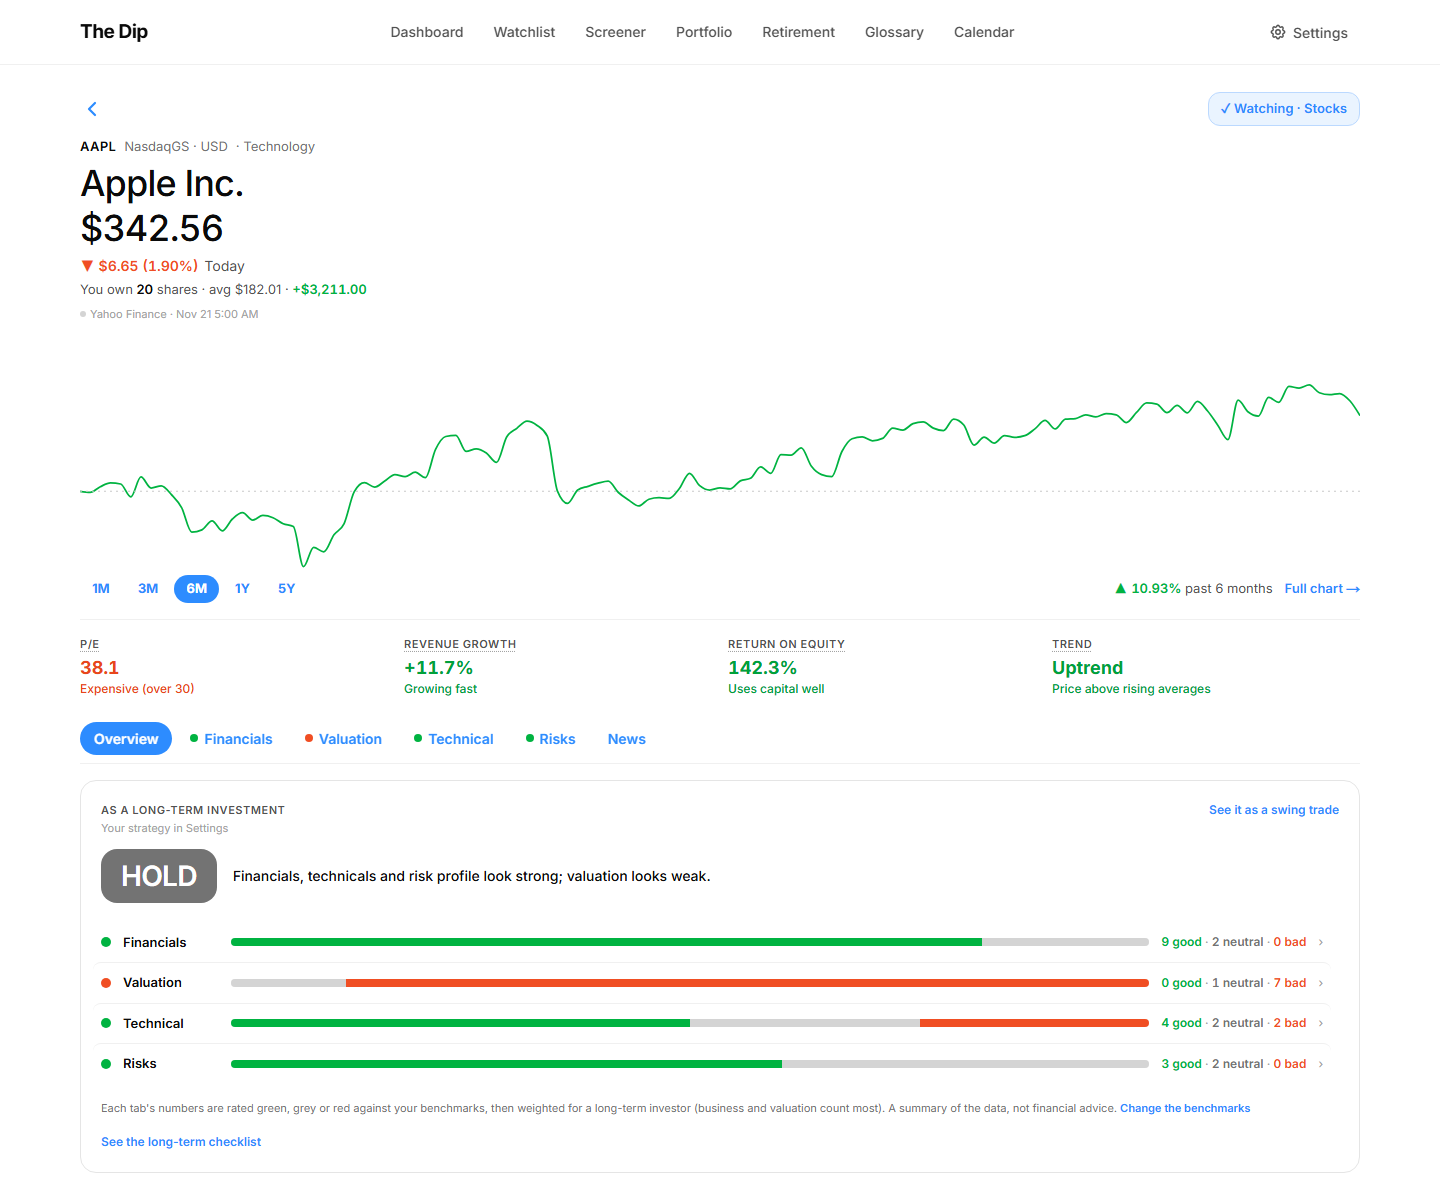
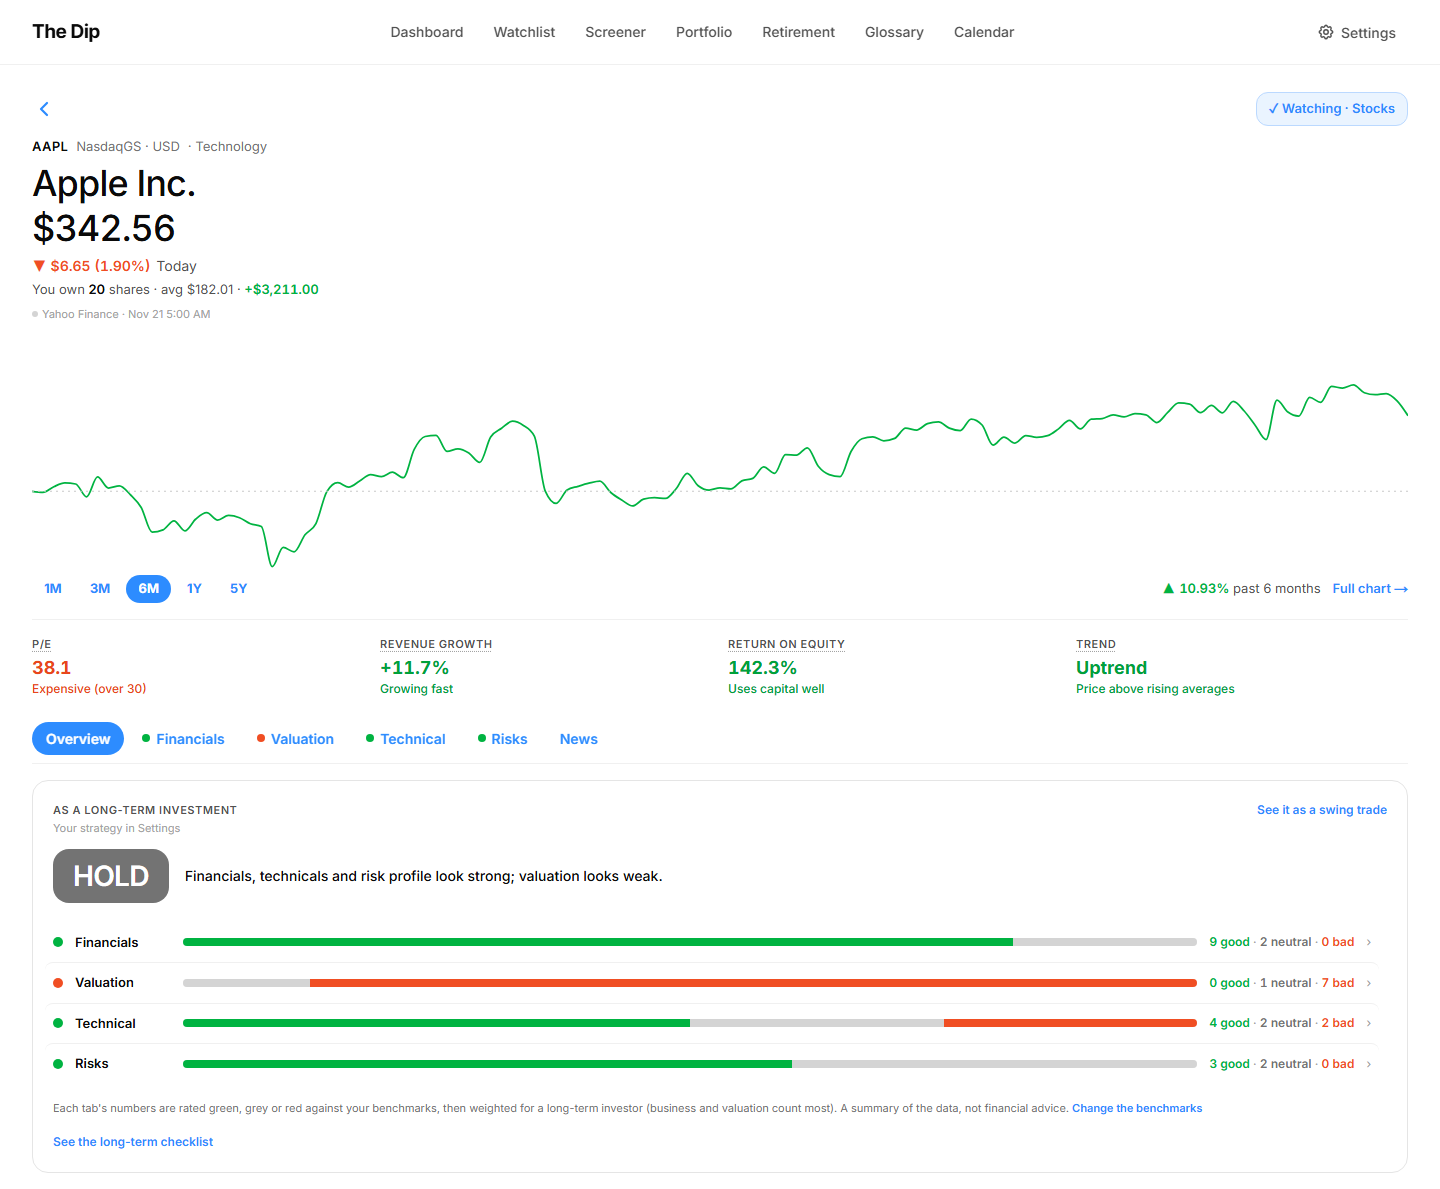
feat(ui): fill the screen's width and drop the watchlist side panel
- Every page and the nav bar now span the full width of the screen,
  keeping only the side padding (16px on phones, 32px on laptops). This
  removes the 1280px cap in the layout and the chart page's own cap.
- Watchlist: the quick-look panel beside the list is gone, so the list
  fills the page and a row opens the stock page on every screen size.
  The drawer for a searched stock, shown before adding it, stays.
- e2e/layout.spec.ts checks every page (now including the chart) spans
  the screen at 1600px and 2200px, and that watchlist rows open the
  stock page with no side panel.
- README: drops the quick-look mentions; the five screenshots are
  retaken at the new width.

diff --git a/e2e/layout.spec.ts b/e2e/layout.spec.ts
@@ -1,19 +1,22 @@
-// Page layout: one page width, the watchlist's quick look, the stock page's single verdict,
+// Page layout: pages fill the screen's width, the watchlist, the stock page's single verdict,
 // the screener's strategy and columns, the settings page, and phones.
 import { test, check, checkNoErrors, box, newContext, overflow, PHONE, trackErrors } from "./support";
 import type { Page } from "@playwright/test";
 
-const PAGES = ["/", "/watchlist", "/calculator", "/portfolio", "/settings", "/stock/AAPL"];
+const PAGES = ["/", "/watchlist", "/calculator", "/portfolio", "/settings", "/stock/AAPL", "/stock/AAPL/chart"];
 const open = (p: Page, path: string) => p.goto(path, { waitUntil: "networkidle", timeout: 120_000 });
 
-test("one page width, centred and lined up with the nav bar", async ({ page, errors }) => {
-  await page.setViewportSize({ width: 1600, height: 900 });
-  for (const path of PAGES) {
-    await open(page, path);
-    const content = await box(page.locator("main > div").first());
-    const logo = await box(page.getByRole("link", { name: "The Dip" }));
-    check(`${path}: content is at most 1280px and centred`, content.width <= 1280 && Math.abs(content.x - (1600 - content.width) / 2) <= 1, `x ${Math.round(content.x)}, width ${Math.round(content.width)}`);
-    check(`${path}: logo lines up with the content`, Math.abs(logo.x - content.x) <= 1, `logo ${Math.round(logo.x)}, content ${Math.round(content.x)}`);
+test("every page fills the screen's width, lined up with the nav bar", async ({ page, errors }) => {
+  for (const width of [1600, 2200]) {
+    await page.setViewportSize({ width, height: 900 });
+    for (const path of PAGES) {
+      await open(page, path);
+      const content = await box(page.locator("main > div").first());
+      const logo = await box(page.getByRole("link", { name: "The Dip" }));
+      // Only the 32px side padding is left over
+      check(`${width}px ${path}: content spans the width`, Math.abs(content.width - (width - 64)) <= 1, `x ${Math.round(content.x)}, width ${Math.round(content.width)}`);
+      check(`${width}px ${path}: logo lines up with the content`, Math.abs(logo.x - content.x) <= 1, `logo ${Math.round(logo.x)}, content ${Math.round(content.x)}`);
+    }
   }
   check("the logo is just the name, no dot", (await page.getByRole("link", { name: "The Dip" }).locator("span").count()) === 0);
   await open(page, "/");
@@ -21,24 +24,21 @@ test("one page width, centred and lined up with the nav bar", async ({ page, err
   checkNoErrors(errors);
 });
 
-test("watchlist: a quick look beside the list on a laptop, the stock page on a phone", async ({ page, browser, errors }) => {
+test("watchlist: the list fills the page, and a row opens the stock page", async ({ page, browser, errors }) => {
   await page.setViewportSize({ width: 1440, height: 900 });
   await open(page, "/watchlist");
-  const panel = page.getByRole("complementary", { name: "Quick look" });
   const rows = page.locator("main ul li a");
+  check("laptop: no panel beside the list", (await page.getByRole("complementary").count()) === 0);
+  check("laptop: rows span the page", Math.round((await box(rows.first())).width) >= 1440 - 64, Math.round((await box(rows.first())).width));
   const second = (await rows.nth(1).locator("p").first().innerText()).trim();
-  check("laptop: the panel starts on the first stock", (await panel.innerText()).includes((await rows.first().locator("p").first().innerText()).trim()));
   await rows.nth(1).click();
-  await page.waitForTimeout(300);
-  check("laptop: clicking a row shows it in the panel and stays on the list", page.url().endsWith("/watchlist") && (await panel.innerText()).includes(second), second);
-  check("laptop: the shown row is highlighted", (await rows.nth(1).getAttribute("aria-current")) === "true");
-  check("laptop: the panel links to full research", (await panel.getByRole("link", { name: /Full research/ }).getAttribute("href")) === `/stock/${second}`);
+  await page.waitForURL(/\/stock\//);
+  check("laptop: clicking a row opens the stock page", page.url().endsWith(`/stock/${second}`), page.url());
 
   const phone = await newContext(browser, PHONE);
   const p = await phone.newPage();
   const phoneErrors = trackErrors(p, [], "phone ");
   await open(p, "/watchlist");
-  check("phone: no quick-look panel", !(await p.getByRole("complementary", { name: "Quick look" }).isVisible()));
   await p.locator("main ul li a").first().tap();
   await p.waitForURL(/\/stock\//);
   check("phone: tapping a row opens the stock page", /\/stock\/[A-Z]/.test(p.url()), p.url());

diff --git a/src/app/watchlist/page.tsx b/src/app/watchlist/page.tsx
@@ -12,7 +12,6 @@ import { categoryFrom, knownCategory } from "@/lib/categories";
 import { closeOnOrBefore, rangeCovering } from "@/lib/portfolioHistory";
 import { formatPercent } from "@/lib/formatters";
 import { defaultCurrency, formatMoney } from "@/lib/markets";
-import { useMediaQuery, WIDE } from "@/hooks/useMediaQuery";
 import { useStoredState } from "@/hooks/useStoredState";
 
 const SPARK_DAYS = 5;
@@ -64,9 +63,6 @@ export default function WatchlistPage() {
   const [loading, setLoading] = useState(false);
   const [query, setQuery] = useState("");
   const [preview, setPreview] = useState<string | null>(null);
-  // On a laptop the list has a quick-look panel beside it; this is the stock shown there
-  const [selected, setSelected] = useState<string | null>(null);
-  const wide = useMediaQuery(WIDE);
   const [sort, setSort] = useStoredState("watchlist_sort", parseSort);
   const [show, setShow] = useStoredState("watchlist_show", parseShow);
   // Edit mode: rename the list, remove stocks, write notes, delete the list
@@ -272,12 +268,8 @@ export default function WatchlistPage() {
 
   if (!lists || !list) return null;
 
-  // A looked-up stock first, then the row picked in the list, then the list's first stock
-  const panelTicker = preview ?? (selected && items.some((i) => i.ticker === selected) ? selected : rows[0]?.item.ticker ?? null);
-
   return (
-    <div className="lg:grid lg:grid-cols-[minmax(0,1fr)_400px] lg:gap-10 lg:items-start">
-    <div className="min-w-0">
+    <div>
       {/* Title */}
       <div className="flex items-center justify-between gap-3 mb-4">
         {editing ? (
@@ -426,16 +418,9 @@ export default function WatchlistPage() {
               );
             }
             const value = show === "today" ? r.today : r.since;
-            const shown = wide && r.item.ticker === panelTicker;
             return (
               <li key={r.item.ticker}>
-                <Link
-                  href={`/stock/${encodeURIComponent(r.item.ticker)}`}
-                  // On a laptop a click shows the stock in the panel; its "Full research" link opens the page
-                  onClick={(e) => { if (wide) { e.preventDefault(); setSelected(r.item.ticker); setPreview(null); } }}
-                  aria-current={shown ? "true" : undefined}
-                  className={`flex items-center gap-3 py-3 -mx-2 px-2 rounded-lg transition-colors ${shown ? "bg-[#F2F8FF]" : "hover:bg-[#FAFAFA]"}`}
-                >
+                <Link href={`/stock/${encodeURIComponent(r.item.ticker)}`} className="flex items-center gap-3 py-3 hover:bg-[#FAFAFA] -mx-2 px-2 rounded-lg transition-colors">
                   <div className="min-w-0 flex-1">
                     <p className="text-[16px] font-semibold text-[#0A0A0A]">{r.item.ticker}</p>
                     <p className="text-[13px] text-[#737373] truncate">{note || r.name || " "}</p>
@@ -465,28 +450,8 @@ export default function WatchlistPage() {
         </div>
       )}
 
-    </div>
-
-      {/* Laptop: quick look beside the list */}
-      <aside className="hidden lg:block lg:sticky lg:top-24" aria-label="Quick look">
-        {panelTicker ? (
-          <TickerPreview
-            key={panelTicker}
-            ticker={panelTicker}
-            watching={list.items.some((i) => i.ticker === panelTicker)}
-            listName={list.name}
-            onAdd={addPreviewed}
-            onClose={preview ? () => setPreview(null) : undefined}
-          />
-        ) : (
-          <div className="rounded-2xl border border-dashed border-[#E5E5E5] p-6 text-center text-[13px] text-[#737373]">
-            Search for a stock to see a quick look here.
-          </div>
-        )}
-      </aside>
-
-      {/* Phone and tablet: look-up drawer */}
-      {preview && !wide && (
+      {/* Look-up drawer: a searched stock, before it's added */}
+      {preview && (
         <div className="fixed inset-0 z-[60]">
           <div className="absolute inset-0 bg-black/25" onClick={() => setPreview(null)} />
           <aside className="absolute inset-y-0 right-0 w-full sm:w-[460px] bg-[#F7F7F8] shadow-2xl overflow-y-auto p-4" aria-label={`${preview} preview`}>

diff --git a/src/app/layout.tsx b/src/app/layout.tsx
@@ -17,10 +17,7 @@ export default function RootLayout({ children }: { children: React.ReactNode }) 
     <html lang="en">
       <body className={`${inter.className} bg-white text-[#0A0A0A] min-h-screen`}>
         <NavBar />
-        <main className="w-full px-4 sm:px-6 lg:px-8 pt-4 lg:pt-6 pb-28 lg:pb-10">
-          {/* One page width everywhere; the nav bar lines up with it */}
-          <div className="max-w-[1280px] mx-auto">{children}</div>
-        </main>
+        <main className="w-full px-4 sm:px-6 lg:px-8 pt-4 lg:pt-6 pb-28 lg:pb-10">{children}</main>
       </body>
     </html>
   );

diff --git a/src/components/NavBar.tsx b/src/components/NavBar.tsx
@@ -50,7 +50,7 @@ export default function NavBar() {
   return (
     <>
       <nav className="bg-white/95 backdrop-blur border-b border-[#F0F0F0] sticky top-0 z-50">
-        <div className="max-w-[1280px] mx-auto px-4 sm:px-6 lg:px-8 lg:box-content flex items-center justify-between h-14 lg:h-16">
+        <div className="w-full px-4 sm:px-6 lg:px-8 flex items-center justify-between h-14 lg:h-16">
           <Link href="/" className="font-bold text-[19px] tracking-tight text-[#0A0A0A] shrink-0 select-none">
             The Dip
           </Link>

diff --git a/src/app/stock/[ticker]/chart/page.tsx b/src/app/stock/[ticker]/chart/page.tsx
@@ -577,7 +577,7 @@ function ChartView({ ticker }: { ticker: string }) {
   const ready = !!(s && chartData && candles.length);
 
   return (
-    <div className="max-w-[1280px] mx-auto">
+    <div>
       <Link href={`/stock/${encodeURIComponent(ticker)}`} className="text-[13px] font-semibold text-[#2D8CFF] hover:underline">
         ← {ticker} research
       </Link>

diff --git a/src/hooks/useMediaQuery.ts b/src/hooks/useMediaQuery.ts
@@ -14,6 +14,3 @@ export function useMediaQuery(query: string): boolean {
     () => false,
   );
 }
-
-/** Tailwind's `lg` breakpoint: laptop and wider */
-export const WIDE = "(min-width: 1024px)";

diff --git a/README.md b/README.md
@@ -20,7 +20,7 @@ Built with Next.js 16, React 19, TypeScript, Tailwind CSS and Recharts. No accou
 
 ![Screener](docs/screenshots/screener.png)
 
-**Watchlists.** Named lists (Stocks, ETF, REIT and Dividend to start) that you can add to, rename and delete. Searching for a stock shows a quick look first (price, 52-week range, market cap, P/E, dividend, analyst target and a business summary), so you can check it before adding it. Each row shows the ticker, your note or the company name, a 5-day price line, the price in the listing's own currency, and a pill with either today's move or the change since you added it. Lists sort by order added, A–Z or biggest movers, and the sort, the pill and the open list are remembered. **Edit** removes stocks, adds a note to each one, renames the list or deletes it. A stock added with **+ Watch** from the Screener or a stock page keeps a note and the strategy it was found under, and its stock page judges it by that strategy. Every row links to the stock's analyser page; on a laptop, clicking a row shows its quick look beside the list instead, with a link to the full page.
+**Watchlists.** Named lists (Stocks, ETF, REIT and Dividend to start) that you can add to, rename and delete. Searching for a stock shows a quick look first (price, 52-week range, market cap, P/E, dividend, analyst target and a business summary), so you can check it before adding it. Each row shows the ticker, your note or the company name, a 5-day price line, the price in the listing's own currency, and a pill with either today's move or the change since you added it. Lists sort by order added, A–Z or biggest movers, and the sort, the pill and the open list are remembered. **Edit** removes stocks, adds a note to each one, renames the list or deletes it. A stock added with **+ Watch** from the Screener or a stock page keeps a note and the strategy it was found under, and its stock page judges it by that strategy. Every row links to the stock's analyser page.
 
 ![Watchlist](docs/screenshots/watchlist.png)
 
@@ -113,7 +113,7 @@ npm run test:e2e   # browser tests (first time: npx playwright install chromium)
 
 No API keys or environment variables are required.
 
-**Browser tests.** [e2e/](e2e/) drives the app in Chromium with Playwright: the chart (crosshair, zoom, scrolling, timeframes, auto-refresh, broken data), indicators, levels and drawings, setups, trade plans, the backtest (including a trade worked out by hand), the economic calendar and the purchase-price lookup, and page layout (one page width, the watchlist's quick look, the stock page's single verdict, the screener's strategy and columns, settings), each at desktop and phone width. `npm run test:e2e` builds the app into `.next-e2e` (so it can run alongside `npm run dev`), starts it on port 3123 and serves the charts from real bars recorded in [e2e/fixtures/](e2e/fixtures/), so results don't change as prices move and no network is needed for them. `npm run test:e2e:record` re-records those bars from a running dev server; `npm run test:e2e:live` runs a few checks against live Yahoo data instead. A failing run leaves an HTML report in `playwright-report/`.
+**Browser tests.** [e2e/](e2e/) drives the app in Chromium with Playwright: the chart (crosshair, zoom, scrolling, timeframes, auto-refresh, broken data), indicators, levels and drawings, setups, trade plans, the backtest (including a trade worked out by hand), the economic calendar and the purchase-price lookup, and page layout (pages filling the screen's width, the watchlist, the stock page's single verdict, the screener's strategy and columns, settings), each at desktop and phone width. `npm run test:e2e` builds the app into `.next-e2e` (so it can run alongside `npm run dev`), starts it on port 3123 and serves the charts from real bars recorded in [e2e/fixtures/](e2e/fixtures/), so results don't change as prices move and no network is needed for them. `npm run test:e2e:record` re-records those bars from a running dev server; `npm run test:e2e:live` runs a few checks against live Yahoo data instead. A failing run leaves an HTML report in `playwright-report/`.
 
 **Automatic checks.** Every pull request, and every push to `main`, runs the type check, lint, unit tests, production build and browser tests on GitHub Actions ([.github/workflows/checks.yml](.github/workflows/checks.yml)). The result shows on the pull request, and a failed browser run attaches its report.
 
